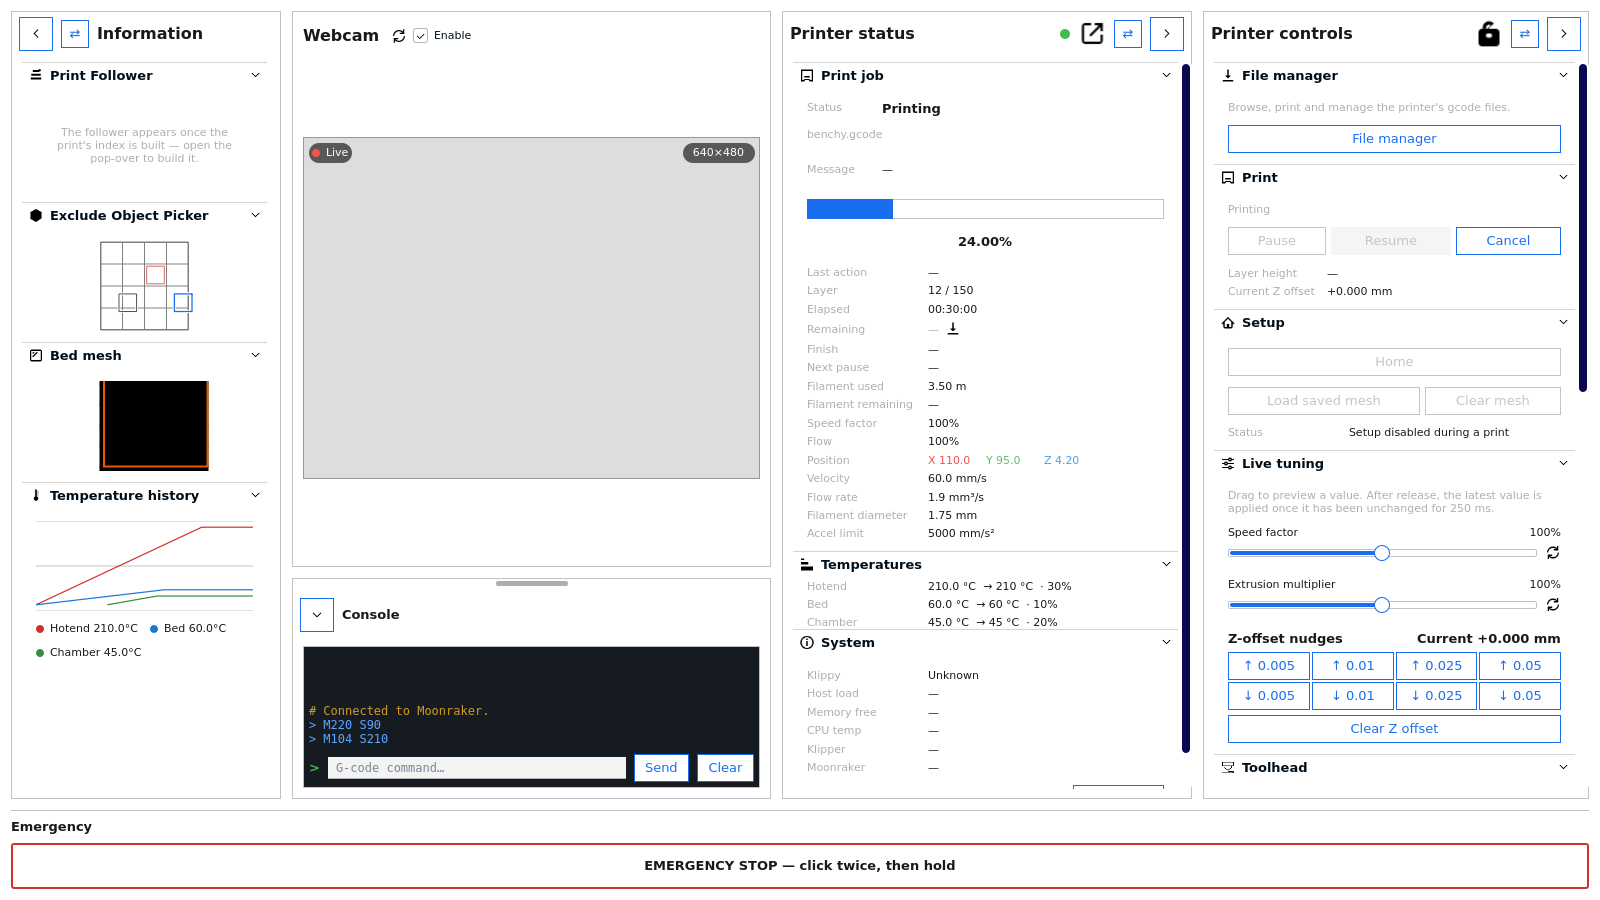
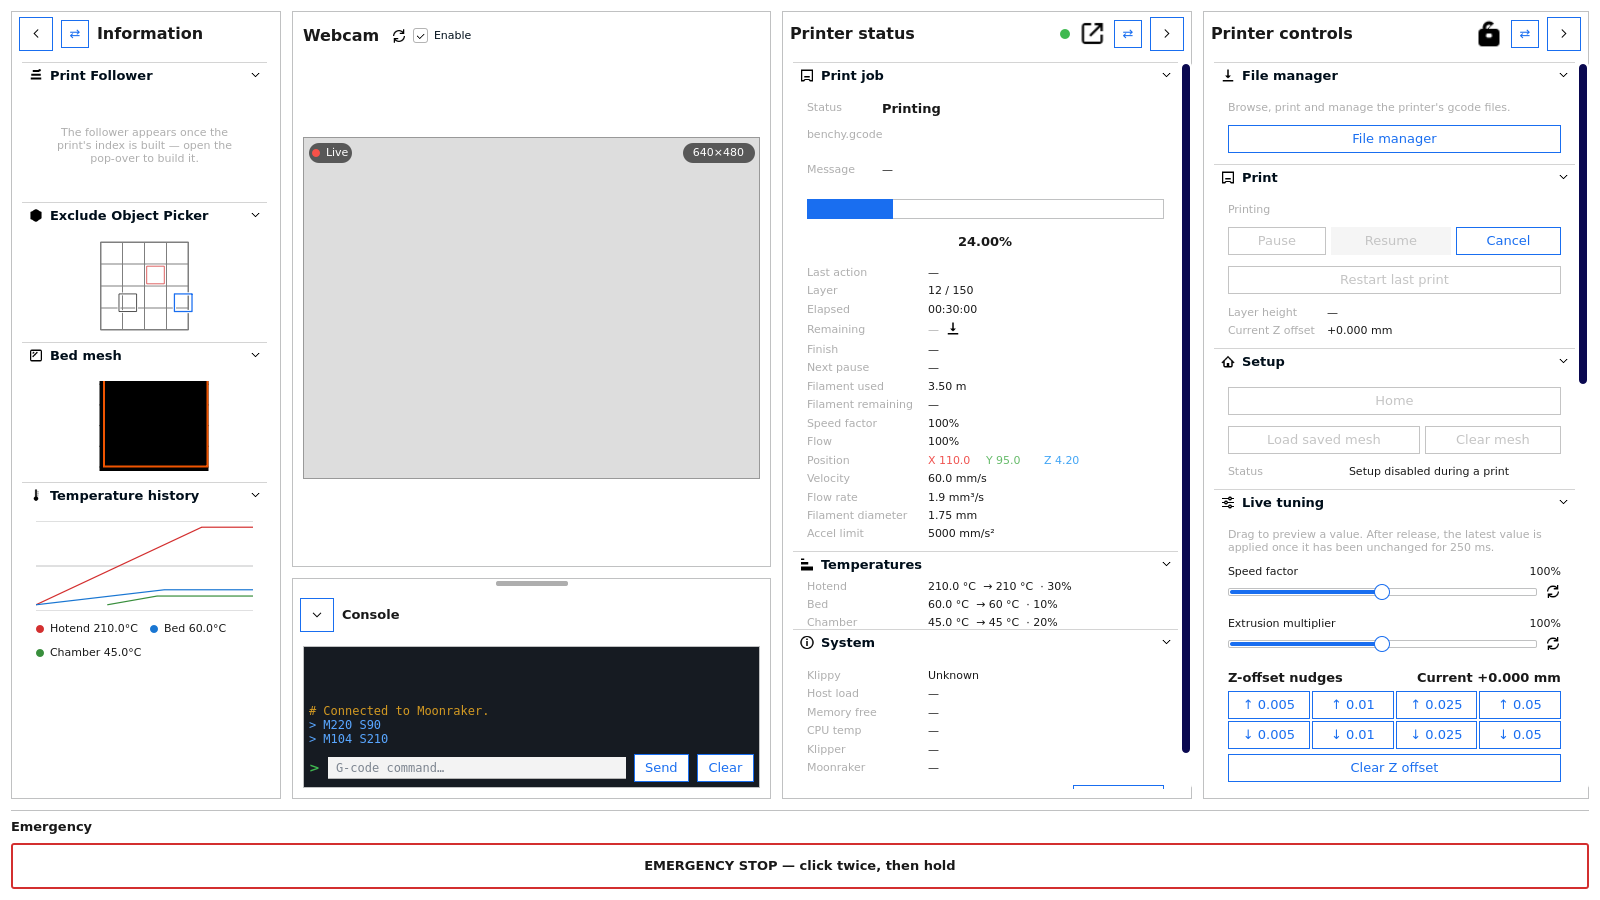
Gate index offers on readiness and centre plate download controls

Changed region(s): [[0.75, 0.4356, 0.9688, 0.8711], [0.75, 0.28, 0.875, 0.3733]]

diff --git a/plugins/PlateDownloadAction.qml b/plugins/PlateDownloadAction.qml
@@ -12,6 +12,8 @@ ColumnLayout {
     Layout.fillWidth: true
     property var printerModel: null
     property string idleInstruction: "Click here to download and index the print — the plate needs the index."
+    property int textAlignment: Text.AlignHCenter
+    property bool indexReady: root.printerModel != null && root.printerModel.printIndexReady === true
     spacing: UM.Theme.getSize("narrow_margin").height
 
     function busy() {
@@ -31,12 +33,14 @@ ColumnLayout {
     // MouseArea and the RowLayout that lays the row out.
     Item {
         id: instructionRow
+        visible: !root.indexReady
         Layout.fillWidth: true
         implicitHeight: instructionRowContent.implicitHeight
 
         RowLayout {
             id: instructionRowContent
-            anchors.fill: parent
+            width: Math.min(parent.width, 16 * screenScaleFactor + spacing + instructionMetrics.advanceWidth)
+            anchors.horizontalCenter: parent.horizontalCenter
             spacing: UM.Theme.getSize("narrow_margin").width
             Item {
                 width: 16 * screenScaleFactor
@@ -81,19 +85,26 @@ ColumnLayout {
                 }
             }
             UM.Label {
+                id: instructionLabel
                 Layout.fillWidth: true
-                text: root.printerModel != null && root.printerModel.printIndexReady === true ? "Print indexed — waiting for print movements." : root.busy() ? "Downloading and indexing the print…" : root.idleInstruction
+                text: root.busy() ? "Downloading and indexing the print…" : root.idleInstruction
                 color: UM.Theme.getColor("text_inactive")
                 font: UM.Theme.getFont("small")
                 wrapMode: Text.WordWrap
+                horizontalAlignment: Text.AlignLeft
             }
+        }
+        TextMetrics {
+            id: instructionMetrics
+            font: instructionLabel.font
+            text: instructionLabel.text
         }
         // Last of the wrapper's children, so it sits above the row
         // layout and the whole row stays one target.
         MouseArea {
             anchors.fill: parent
             enabled: root.printerModel != null && root.printerModel.monitorConnected && root.printerModel.printIndexReady !== true
-            cursorShape: root.printerModel != null ? Qt.PointingHandCursor : Qt.ArrowCursor
+            cursorShape: enabled ? Qt.PointingHandCursor : Qt.ArrowCursor
             onClicked: {
                 if (root.printerModel != null) {
                     root.printerModel.improveEta();
@@ -102,8 +113,20 @@ ColumnLayout {
         }
     }
 
-    RowLayout {
+    UM.Label {
         Layout.fillWidth: true
+        visible: root.indexReady
+        text: "Print indexed — waiting for print movements."
+        color: UM.Theme.getColor("text_inactive")
+        font: UM.Theme.getFont("small")
+        wrapMode: Text.WordWrap
+        horizontalAlignment: root.textAlignment
+    }
+
+    RowLayout {
+        objectName: "plateDownloadProgressRow"
+        Layout.alignment: Qt.AlignHCenter
+        Layout.preferredWidth: Math.min(root.width, 320 * screenScaleFactor)
         opacity: root.busy() ? 1 : 0
         spacing: UM.Theme.getSize("narrow_margin").width
 

diff --git a/plugins/JobSection.qml b/plugins/JobSection.qml
@@ -338,8 +338,8 @@ ColumnLayout {
                 }
                 // The Improve-ETA affordance: a small
                 // download glyph beside the value it
-                // improves, shown only while the
-                // plain blend is the active basis.
+                // improves, offered until the index is ready. PRINT_START
+                // can keep the ETA on its blend before motion matching begins.
                 Item {
                     // NO-REFLOW RULE: the 16 px glyph
                     // slot is always reserved — it
@@ -347,7 +347,7 @@ ColumnLayout {
                     // ETA value sideways.
                     width: 16 * screenScaleFactor
                     height: 16 * screenScaleFactor
-                    opacity: root.printerModel != null && root.printerModel.printActive && (root.printerModel.monitorEtaBasis === "blend" || root.printerModel.improvingEta) ? 1 : 0
+                    opacity: root.printerModel != null && root.printerModel.printActive && !root.printerModel.printIndexReady ? 1 : 0
                     enabled: opacity > 0
                     HoverHandler {
                         id: tooltipHover5

diff --git a/plugins/MoonrakerMonitor.qml b/plugins/MoonrakerMonitor.qml
@@ -3083,7 +3083,7 @@ Component {
                         // executed motions — no index, no green (the
                         // live ruling: the legend must not promise
                         // what the data cannot say).
-                        visible: root.printer != null && root.printer.plateProgressAvailable
+                        visible: root.printer != null && root.printer.plateTrackingAvailable
                         spacing: 4 * screenScaleFactor
                         Rectangle {
                             width: 10 * screenScaleFactor
@@ -3128,7 +3128,7 @@ Component {
                 // the overlay overlapped the plate.
                 PlateDownloadAction {
                     Layout.fillWidth: true
-                    visible: root.printer != null && root.printer.plateHasObjects && !root.printer.plateProgressAvailable
+                    visible: root.printer != null && root.printer.plateHasObjects && !root.printer.plateTrackingAvailable
                     printerModel: root.printer
                     idleInstruction: "Download and index the print to track the printed state."
                 }

diff --git a/plugins/PlateProgressFace.qml b/plugins/PlateProgressFace.qml
@@ -3140,6 +3140,7 @@ Item {
             visible: root.progress == null || root.progress.reason === ""
             printerModel: root.printerModel
             idleInstruction: "Download and index this print to follow its progress."
+            textAlignment: Text.AlignHCenter
         }
     }
 

diff --git a/tests/test_monitor_model_runtime.py b/tests/test_monitor_model_runtime.py
@@ -84,6 +84,7 @@ class MonitorQtTests(harness.MonitorQtTests):
         coordinator._snapshot = harness.replace(coordinator._snapshot, index_ready=True, plate_progress=None)
         model._publish()
         self.assertTrue(model.printIndexReady)
+        self.assertIn("!root.printerModel.printIndexReady", harness.JOB_SECTION_QML)
         self.assertIn("Print indexed", model.plateProgressReason)
         with harness.patch.object(model, "_request_monitor_download") as download:
             model.improveEta()
@@ -92,6 +93,17 @@ class MonitorQtTests(harness.MonitorQtTests):
         self.deliver_state("standby")
         model._publish()
         self.assertEqual(model.plateProgressReason, "No active print.")
+
+    def test_live_tracking_readiness_updates_with_both_follower_surfaces_closed(self):
+        model = self.monitor()
+        self.deliver_state("printing")
+        model.setFollowerPopoverOpen(False)
+        model._sections["plateprogress"] = False
+        self.assertFalse(model.plateTrackingAvailable)
+        self._with_layers(model, 0, 100)
+        self.assertTrue(model.plateTrackingAvailable)
+        self.assertFalse(model.plateProgressAvailable,
+                         "the closed popover must still freeze its own surface state")
 
     def test_last_action_timestamp_is_event_time_not_publication_time(self):
         from unittest.mock import patch
@@ -2587,8 +2599,12 @@ Item {
             # The picker's printed-legend row and its index offer:
             # the printed state derives from the index, so both gate
             # on its availability — inside the transient card.
-            "visible: root.printer != null && root.printer.plateProgressAvailable",
-            "visible: root.printer != null && root.printer.plateHasObjects && !root.printer.plateProgressAvailable",
+            "visible: root.printer != null && root.printer.plateTrackingAvailable",
+            "visible: root.printer != null && root.printer.plateHasObjects && !root.printer.plateTrackingAvailable",
+            # The download prompt swaps into noninteractive waiting text
+            # inside the transient plate cards once their index is ready.
+            "visible: !root.indexReady",
+            "visible: root.indexReady",
             # The scope's right-edge tick: the majors draw one full
             # line, the halves and quarters an edge pair — scene-graph
             # decoration inside the scope.

diff --git a/plugins/MoonrakerMonitorModel.py b/plugins/MoonrakerMonitorModel.py
@@ -538,7 +538,7 @@ class MoonrakerMonitorModel(PrinterOutputModel):
                                  "pauseAtLayerHasClearable")),
         ("plateScrubVectorChanged", ("plateScrubVector",)),
         ("plateLiveScrubVectorChanged", ("plateLiveScrubVector",)),
-        ("plateProgressChanged", ("plateLayers", "plateSplit", "platePartial", "plateProgressAnchor", "plateProgressAvailable", "plateProgressReason",
+        ("plateProgressChanged", ("plateLayers", "plateSplit", "platePartial", "plateProgressAnchor", "plateProgressAvailable", "plateTrackingAvailable", "plateProgressReason",
                                   "plateLayerCount", "plateLayerMotionCount",
                                   "plateLiveLayers", "plateLiveSplit", "plateLivePartial", "plateLiveAnchor", "plateLiveAvailable",
                                   "plateNavigationData", "plateNavigationSplit",
@@ -1443,6 +1443,7 @@ class MoonrakerMonitorModel(PrinterOutputModel):
         if lookup_ms is None:
             lookup_ms = getattr(snapshot, "plate_decode_ms", None)  # legacy test/snapshot
         progress = getattr(snapshot, "plate_progress", None)
+        values["plateTrackingAvailable"] = bool(progress is not None and progress.get("layers", {}).get("current") is not None)
         follower = getattr(snapshot, "plate_manual_progress", None)
         # The attached state must read the LIVE payload: the old
         # order let a stale manual payload (a detach's residue)
@@ -1902,6 +1903,7 @@ class MoonrakerMonitorModel(PrinterOutputModel):
     plateSplit = value_property(QVariant, "plateSplit", plateProgressChanged, None)
     plateProgressAnchor = value_property(int, "plateProgressAnchor", plateProgressChanged, -1)
     plateProgressAvailable = value_property(bool, "plateProgressAvailable", plateProgressChanged, False)
+    plateTrackingAvailable = value_property(bool, "plateTrackingAvailable", plateProgressChanged, False)
     plateProgressReason = value_property(str, "plateProgressReason", plateProgressChanged, "")
     plateLayerCount = value_property(int, "plateLayerCount", plateProgressChanged, 0)
     plateLayerMotionCount = value_property(int, "plateLayerMotionCount", plateProgressChanged, 0)

diff --git a/tools/mac_renderer_probe.py b/tools/mac_renderer_probe.py
@@ -39,6 +39,9 @@ def main():
             return {"path": target, "error": str(exc)}
 
     report["hello"] = runner.rpc({"id": 1, "cmd": "hello"})
+    # The driver starts before Cura creates its main QQuickWindow. Both
+    # comparison legs must reach the same window boundary before probing.
+    report["window_ready"] = runner.wait_window()
     report["heartbeat"] = runner.rpc({"id": 1, "cmd": "frames", "heartbeat": True,
                                      "deadline_ms": 1500}, timeout=30)
     # Take the desktop picture FIRST: grabWindow may force a repaint and
@@ -70,6 +73,36 @@ result = {"windows": rows, "saved": saved, "null": image.isNull(),
         report["internal"] = {"error": repr(exc)}
     time.sleep(2)
     report["desktop_after_grab"] = still("-desktop-after-grab")
+    if args.phase == "after":
+        # Harness-only experiment: distinguish Cura's external GL drawing
+        # from Qt scene-graph presentation. Always restore the callback.
+        detached = False
+        try:
+            detached = runner.exec_rpc('''
+from UM.Application import Application
+main = Application.getInstance().getMainWindow()
+main.beforeRenderPassRecording.disconnect(main._render)
+main.update()
+result = True
+''', timeout=30, raise_on_error=True) is True
+            time.sleep(3)
+            report["without_external_gl"] = {"detached": detached,
+                "desktop": still("-without-external-gl")}
+        except Exception as exc:
+            report["without_external_gl"] = {"error": repr(exc)}
+        finally:
+            if detached:
+                try:
+                    report["external_gl_restored"] = runner.exec_rpc('''
+from UM.Application import Application
+from PyQt6.QtCore import Qt
+main = Application.getInstance().getMainWindow()
+main.beforeRenderPassRecording.connect(main._render, type=Qt.ConnectionType.DirectConnection)
+main.update()
+result = True
+''', timeout=30, raise_on_error=True)
+                except Exception as exc:
+                    report["external_gl_restored"] = {"error": repr(exc)}
     pid = report["hello"].get("pid")
     if pid:
         try:

diff --git a/tests/harness/scenario_map.py b/tests/harness/scenario_map.py
@@ -433,6 +433,18 @@ PREFIX_RULES = [
 # fields are validated by test_coverage.py. An entry whose re-check
 # trigger fires must be re-probed, not carried forward silently.
 EXCLUSIONS = {
+    "plateDownloadProgressRow": {
+        "reason": "noninteractive progress readout; the enclosing download action is mapped",
+        "evidence": "test_qml_object_picker: instruction and progress rows are centred on the real engine",
+        "date": "2026-09-27",
+        "recheck": "the progress row gains an input action",
+    },
+    "plateTrackingAvailable": {
+        "reason": "ungated live tracking flag used by the picker, independent of follower visibility",
+        "evidence": "test_monitor_model_runtime: live tracking readiness updates with both follower surfaces closed",
+        "date": "2026-09-27",
+        "recheck": "the native picker scenario closes both follower surfaces before testing tracking",
+    },
     "printIndexReady": {
         "reason": "read-only download guard; startup with an index but no physical layer is covered in Qt runtime tests",
         "evidence": "test_monitor_model_runtime: indexed PRINT_START does not offer another download",

diff --git a/tests/test_qml_object_picker.py b/tests/test_qml_object_picker.py
@@ -452,6 +452,16 @@ class PlateDownloadActionTests(harness.PlateDownloadActionTests):
         label, area = self._instruction_row(document)
         self.assertNotIn("Layout", area.parentItem().metaObject().className(),
                          "the MouseArea hangs off a layout item again")
+        # Centre the icon and text together, rather than centring the
+        # text inside a full-width row with the icon left at the edge.
+        document.setProperty("idleInstruction", "Download this print")
+        self.pump(30)
+        row = label.parentItem()
+        self.assertLess(row.width(), document.width())
+        self.assertAlmostEqual(row.x() + row.width() / 2, document.width() / 2, delta=0.5)
+        self.assertLess(label.x(), 30)
+        progress = self.find(document, "plateDownloadProgressRow")
+        self.assertAlmostEqual(progress.x() + progress.width() / 2, document.width() / 2, delta=0.5)
 
     def test_the_whole_instruction_row_stays_one_click_target(self):
         document, window, printer = self._mount_action()

diff --git a/tests/test_renderer_parity.py b/tests/test_renderer_parity.py
@@ -209,6 +209,10 @@ class RendererParityTests(_parent.RealEngineTestCase):
             plot, nav_view)
         png_file(raster, "/tmp/mpf", "parity-nav-grid")
         self._printer.setNavigation("/tmp/mpf/parity-nav-grid.png")
+        # This pin measures ONE flattened image, not the unrelated live
+        # fixture's carried tail painted over our synthetic short stroke.
+        # Mark that tail included so it cannot contaminate the landmarks.
+        self._printer.setNavigationSplit(self._printer._split)
         self.pump(40)
         origin = face.mapToItem(window.contentItem(), QPointF(0.0, 0.0))
         ox, oy = int(origin.x()), int(origin.y())
